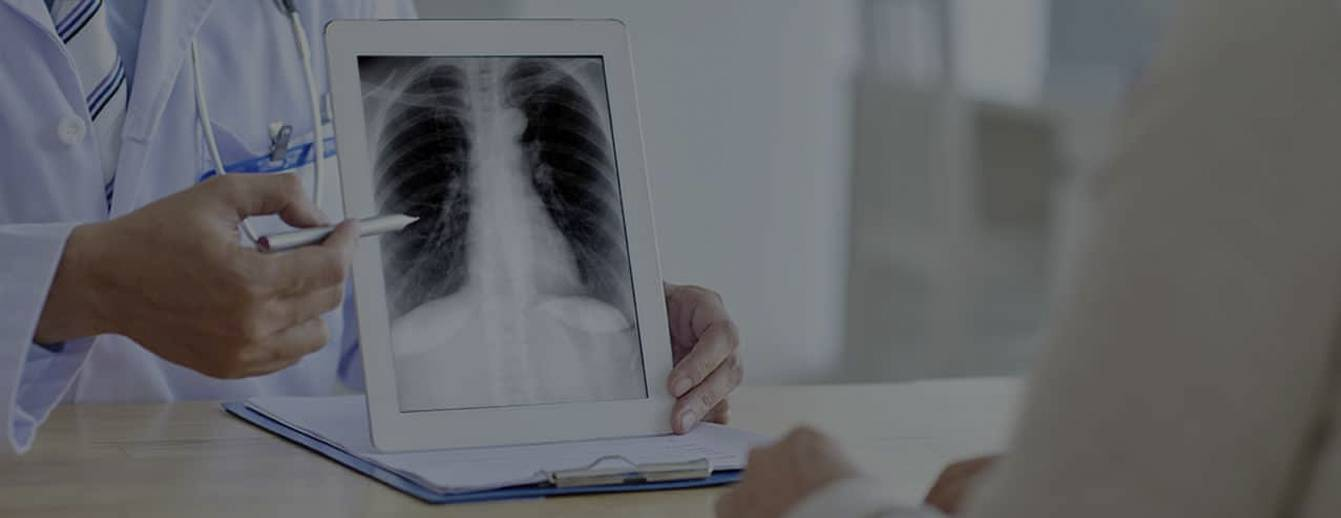
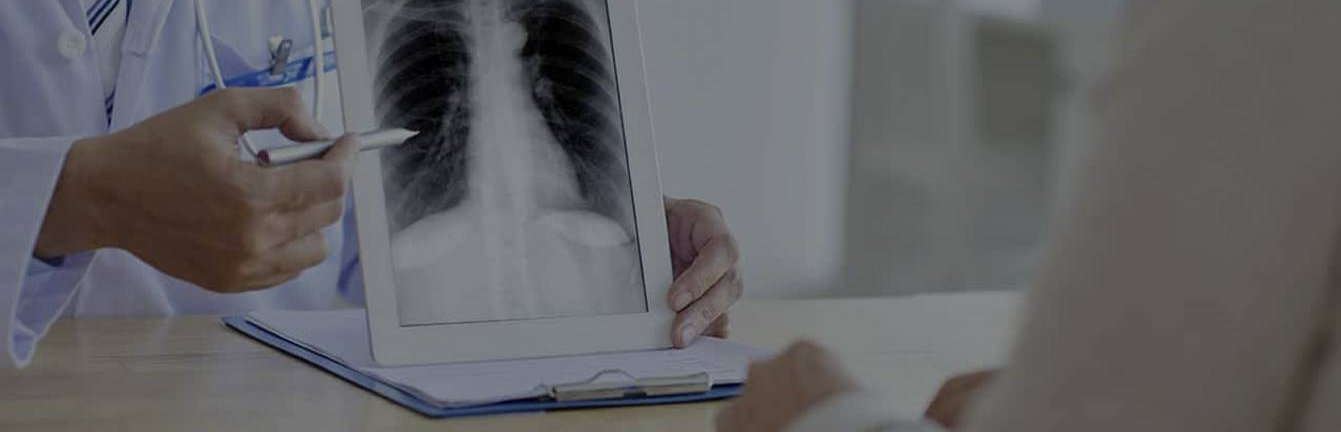
[Fix] Quem somos

diff --git a/assets/css/style.css b/assets/css/style.css
@@ -598,14 +598,16 @@ input[type="file"], input[type="submit"] {
   width: 100%;
 }
 
+.nav-container {
+  position: relative;
+}
+
 .nav-ul {
   background-color: #F2FEFC;
 }
 
 .container-banner-quem-somos .banner-title {
   display: flex;
-  padding-top: 7rem;
-  position: absolute;
   z-index: 99;
   width: 100%;
   height: 7rem;
@@ -628,16 +630,21 @@ input[type="file"], input[type="submit"] {
 }
 
 .container-banner-quem-somos .banner-quem-somos img {
-  padding-top: 7rem;
   width: 100%;
 }
 
 .container-banner-quem-somos .banner-quem-somos h1 {
   color: #F2FEFC;
-  margin: -18% auto auto auto;
+  margin: -20% auto 0 auto;
   font-size: 2.4rem;
   font-weight: 500;
   text-transform: uppercase;
+}
+
+@media screen and (min-width: 1150px) {
+  .container-banner-quem-somos {
+    margin-bottom: 4rem;
+  }
 }
 
 .quem-somos-content {

diff --git a/assets/sass/_quem-somos.scss b/assets/sass/_quem-somos.scss
@@ -1,3 +1,7 @@
+.nav-container {
+  position: relative;
+}
+
 .nav-ul {
   background-color: $branco;
 }
@@ -6,8 +10,6 @@
 
   .banner-title {  
     display: flex;
-    padding-top: 7rem;
-    position:absolute;
     z-index: 99;
     width: 100%;
     height: 7rem;
@@ -30,12 +32,11 @@
     flex-direction: column;
     
     img {
-      padding-top: 7rem;
       width: 100%;
     }
     h1 {
       color: $branco;
-      margin:  -18% auto auto auto;
+      margin: -20% auto 0 auto;
       font-size: 2.4rem;
       font-weight: 500;
       text-transform: uppercase;
@@ -44,6 +45,11 @@
   }
 }
 
+@media screen and (min-width: 1150px){
+  .container-banner-quem-somos {
+    margin-bottom: 4rem;
+  }
+}
 .quem-somos-content {
   display: flex;
   flex-direction: column;
